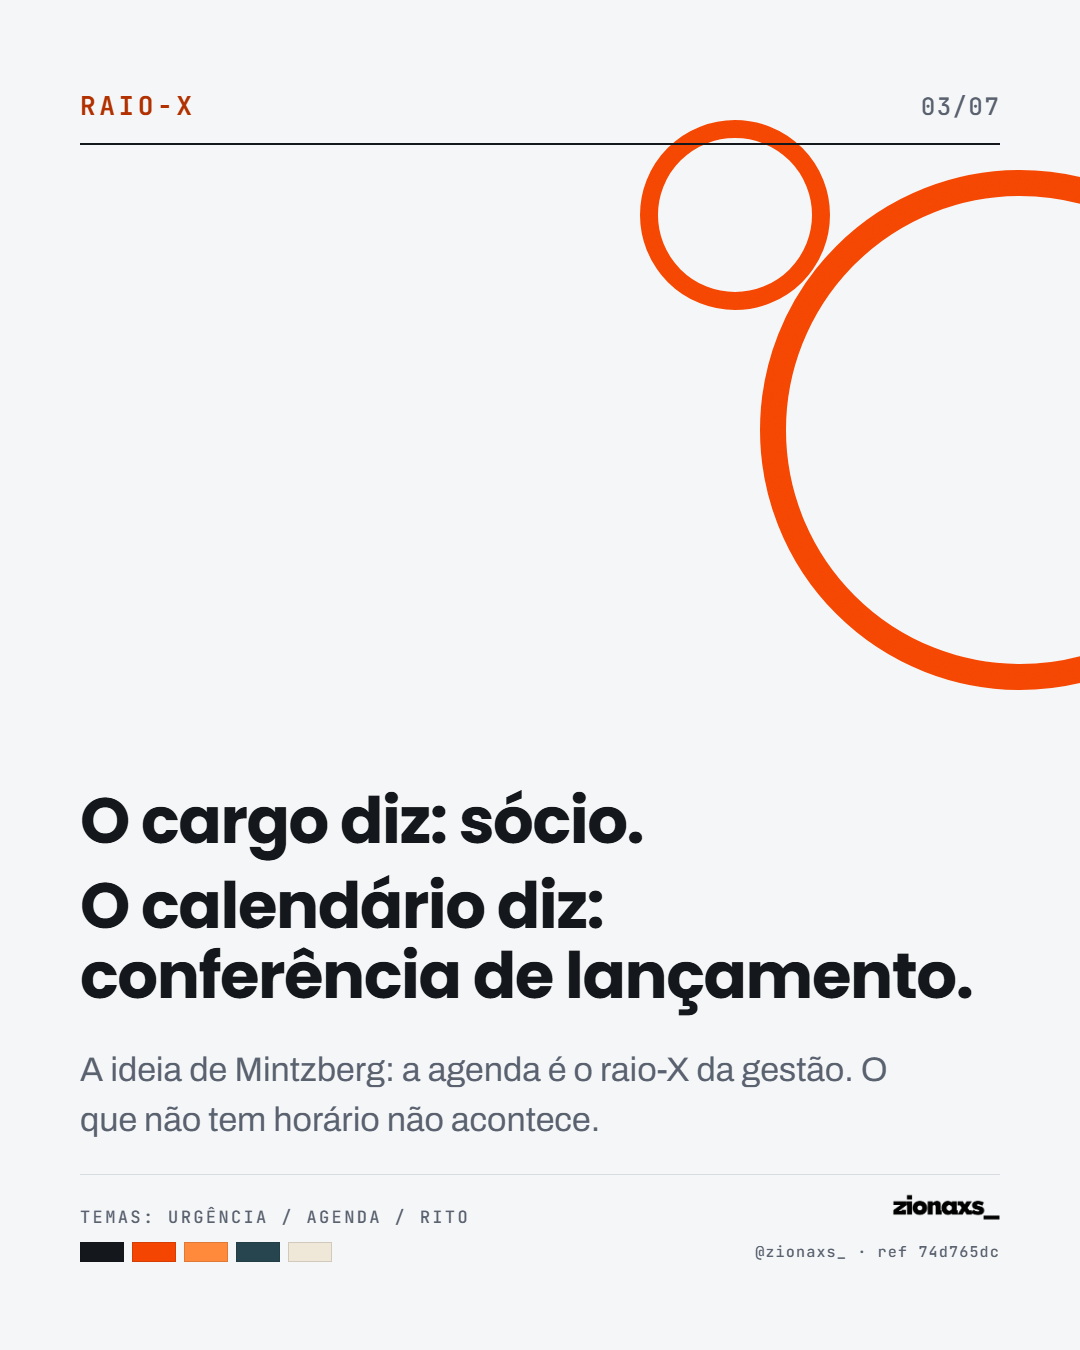
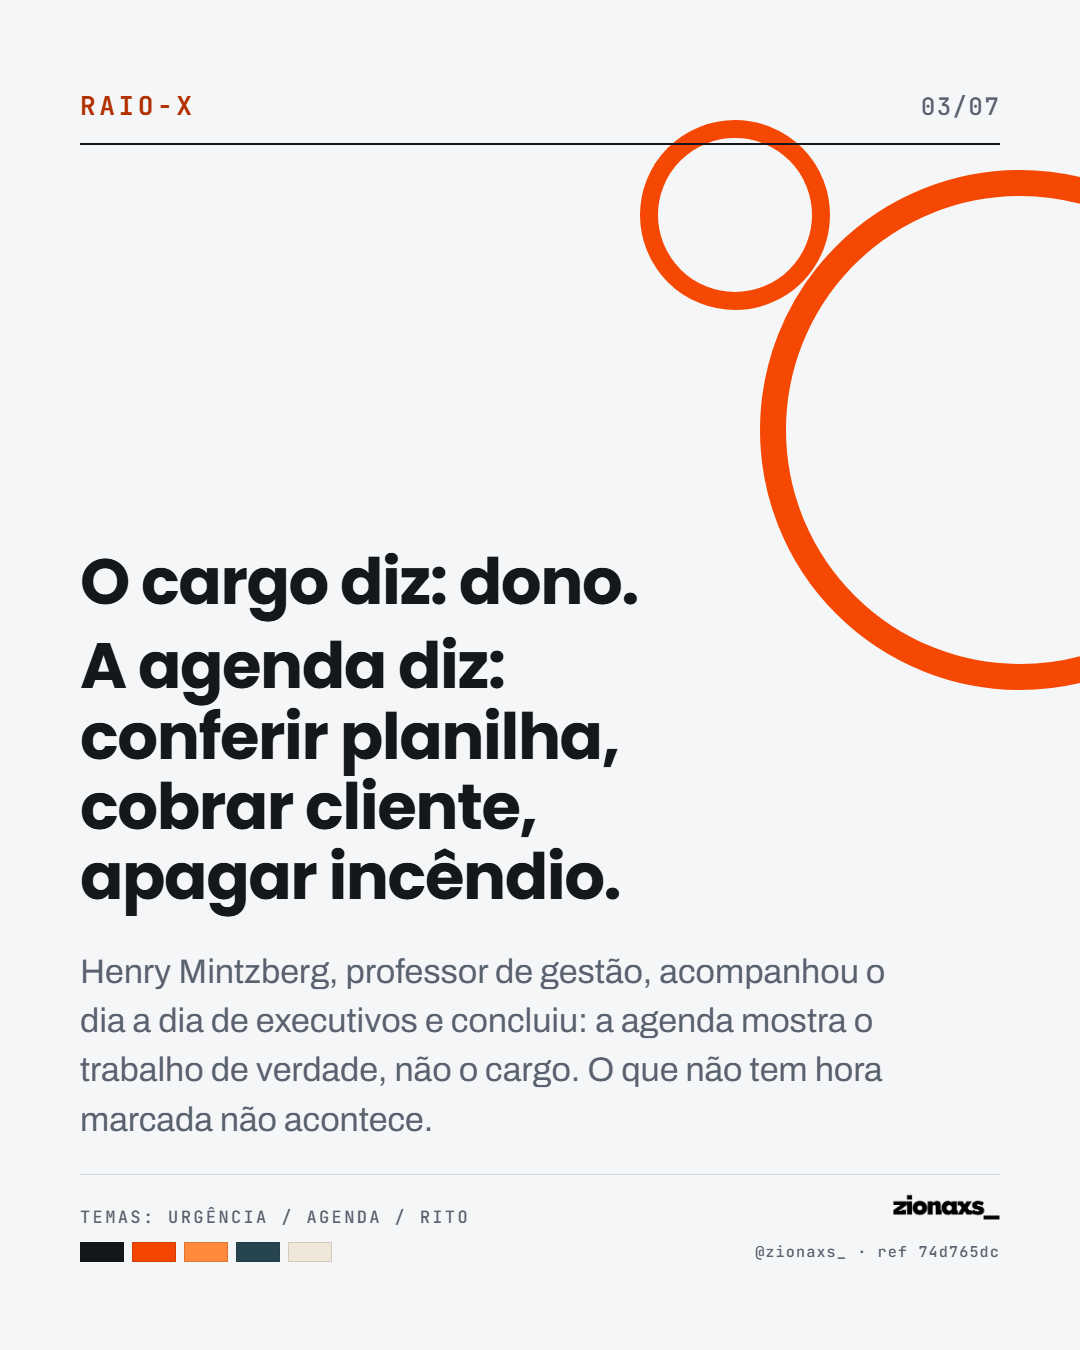
copy: zx-22 mais didatico, numeros em algarismo e correcao de layout
Copy reescrita para leitor leigo: Mintzberg apresentado, jargao trocado por
cena universal, cada bloco do roteiro explicado, CTA com o passo a passo.
Numeros em algarismo (14 mensagens, 3 urgencias, 3 blocos, 1 melhoria).

No renderer: meta e corpo passam a compartilhar uma pilha ancorada embaixo
(o meta fixo em top:40% colidia quando a copy crescia, e nenhum gate mede
sobreposicao), caixa alta restrita ao tipo de display, e poster-turn passa
a aceitar linha explicativa. 12/12 gates verdes.

Changed region(s): [[0.0611, 0.4044, 0.9167, 0.84]]

diff --git a/sistema/workspace/pieces/zx-22-reuniao-de-30-minutos/out/compiled.html b/sistema/workspace/pieces/zx-22-reuniao-de-30-minutos/out/compiled.html
@@ -110,9 +110,9 @@ body{font-family:Archivo,sans-serif;-webkit-font-smoothing:antialiased;font-kern
 .slide.pfield-paper{background:#F5F6F7;color:#14171B}
 .slide.pfield-orange{background:#F54502;color:#F5F6F7}
 
-.pmeta{position:absolute;left:80px;right:80px;top:40%;
-  display:flex;justify-content:space-between;align-items:flex-start;
-  padding-bottom:0;border-bottom:0}
+.pstack{position:absolute;left:80px;right:80px;bottom:206px}
+.pmeta{display:flex;justify-content:space-between;align-items:flex-start;
+  padding-bottom:0;border-bottom:0;margin-bottom:34px}
 .pyear{font-family:Poppins,sans-serif;font-weight:700;font-size:46px;letter-spacing:.02em}
 .pkick{font-family:"JetBrains Mono",monospace;font-weight:700;font-size:22px;letter-spacing:.2em;
   text-transform:uppercase;margin-top:22px;color:#F54502}
@@ -131,8 +131,7 @@ body{font-family:Archivo,sans-serif;-webkit-font-smoothing:antialiased;font-kern
 .php .pp2{font-family:"JetBrains Mono",monospace;font-weight:500;font-size:24px;
   letter-spacing:.06em;color:#5A6270;font-variant-numeric:tabular-nums}
 
-.pbody{position:absolute;left:80px;right:80px;bottom:206px}
-.pbody.up{text-transform:uppercase}
+.pbody.up .pt1,.pbody.up .pt2{text-transform:uppercase}
 .pt1{font-family:Poppins,sans-serif;font-weight:700;line-height:.98;letter-spacing:-.02em}
 .pt2{font-family:Poppins,sans-serif;font-weight:700;font-size:64px;line-height:1.1;letter-spacing:-.022em}
 .psub{font-size:40px;line-height:1.32;font-weight:500}
@@ -181,15 +180,15 @@ body{font-family:Archivo,sans-serif;-webkit-font-smoothing:antialiased;font-kern
   <div class="pscrim"></div>
   
   <div class="pgrain"></div>
-  <div class="hd pmeta">
+  
+  <div class="pstack"><div class="hd pmeta">
     <div><div class="pyear">2026</div><div class="pkick">Rito semanal</div></div>
     <div class="pnum">01/07</div>
-  </div>
-  <div class="pbody up">
+  </div><div class="pbody up">
 <h1 class="pt1" style="font-size:86px">Sua segunda-feira<br>começa apagando<br>incêndio?</h1>
 <p class="pt1" style="font-size:54px;line-height:1.06;margin-top:30px">Existe um rito de<br><span class="phl">30 minutos</span> para isso.</p>
-<p class="pnote" style="margin-top:26px">Roteiro pronto. Sem sistema novo.</p>
-  </div>
+<p class="pnote" style="margin-top:26px">Uma reunião curta com você mesmo, sempre no mesmo dia e horário. O roteiro completo vem nos próximos slides.</p>
+  </div></div>
   <div class="ft pfoot">
     <div class="pf1"><span class="ptemas">Temas: Urgência / Agenda / Rito</span><span class="pwm"><img src="../../../brand/logo/zionaxs-white.png" alt=""></span></div>
     <div class="pf2"><span class="pchips"><i style="background:#14171B"></i><i style="background:#F54502"></i><i style="background:#FF8A3C"></i><i style="background:#27454E"></i><i style="background:#EFE7D7"></i></span><span class="pmicro">@zionaxs_ · ref 74d765dc · foto: F. Rezvani</span></div>
@@ -205,10 +204,10 @@ body{font-family:Archivo,sans-serif;-webkit-font-smoothing:antialiased;font-kern
   </div>
   <div class="pgrain"></div>
   <div class="hd php"><span class="pk2">A cena</span><span class="pp2">02/07</span></div>
-  <div class="pbody">
-<p class="pt1" style="font-size:80px">Segunda, 8h.<br>Catorze mensagens,<br>três urgências.</p>
-<p class="psub" style="margin-top:30px;max-width:820px">A semana decide por você antes de você decidir por ela.</p>
-  </div>
+  <div class="pstack"><div class="pbody">
+<p class="pt1" style="font-size:80px">Segunda, 8h.<br>14 mensagens,<br>3 urgências.</p>
+<p class="psub" style="margin-top:30px;max-width:820px">Você responde tudo, resolve tudo — e quando vê já são 18h sem nenhuma decisão sua sobre o próprio negócio. A semana decidiu por você.</p>
+  </div></div>
   <div class="ft pfoot">
     <div class="pf1"><span class="ptemas">Temas: Urgência / Agenda / Rito</span><span class="pwm"><img src="../../../brand/logo/zionaxs-black.png" alt=""></span></div>
     <div class="pf2"><span class="pchips"><i style="background:#14171B"></i><i style="background:#F54502"></i><i style="background:#FF8A3C"></i><i style="background:#27454E"></i><i style="background:#EFE7D7"></i></span><span class="pmicro">@zionaxs_ · ref 74d765dc · foto: A. Vo</span></div>
@@ -223,11 +222,11 @@ body{font-family:Archivo,sans-serif;-webkit-font-smoothing:antialiased;font-kern
   </div>
   <div class="pgrain"></div>
   <div class="hd php"><span class="pk2">Raio-X</span><span class="pp2">03/07</span></div>
-  <div class="pbody">
-<p class="pt2" style="margin-top:0">O cargo diz: sócio.</p>
-<p class="pt2" style="margin-top:14px">O calendário diz:<br>conferência de lançamento.</p>
-<p class="sec" style="margin-top:34px;max-width:840px">A ideia de Mintzberg: a agenda é o raio-X da gestão. O que não tem horário não acontece.</p>
-  </div>
+  <div class="pstack"><div class="pbody">
+<p class="pt2" style="margin-top:0">O cargo diz: dono.</p>
+<p class="pt2" style="margin-top:14px">A agenda diz:<br>conferir planilha,<br>cobrar cliente,<br>apagar incêndio.</p>
+<p class="sec" style="margin-top:34px;max-width:840px">Henry Mintzberg, professor de gestão, acompanhou o dia a dia de executivos e concluiu: a agenda mostra o trabalho de verdade, não o cargo. O que não tem hora marcada não acontece.</p>
+  </div></div>
   <div class="ft pfoot">
     <div class="pf1"><span class="ptemas">Temas: Urgência / Agenda / Rito</span><span class="pwm"><img src="../../../brand/logo/zionaxs-black.png" alt=""></span></div>
     <div class="pf2"><span class="pchips"><i style="background:#14171B"></i><i style="background:#F54502"></i><i style="background:#FF8A3C"></i><i style="background:#27454E"></i><i style="background:#EFE7D7"></i></span><span class="pmicro">@zionaxs_ · ref 74d765dc</span></div>
@@ -240,14 +239,15 @@ body{font-family:Archivo,sans-serif;-webkit-font-smoothing:antialiased;font-kern
     <svg class="pghost" viewBox="0 0 640 640" aria-hidden="true"><text x="640" y="560" text-anchor="end" font-size="560" letter-spacing="-28">30</text></svg>
   </div>
   <div class="pgrain"></div>
-  <div class="hd pmeta">
+  
+  <div class="pstack"><div class="hd pmeta">
     <div><div class="pyear">2026</div><div class="pkick">Gestão</div></div>
     <div class="pnum">04/07</div>
-  </div>
-  <div class="pbody up">
+  </div><div class="pbody up">
 <p class="pt1" style="font-size:78px">Gestão não é o que<br>sobra do dia.</p>
 <p class="pt1" style="font-size:78px;margin-top:30px">É um <span class="phl-ink">horário</span><br>no calendário.</p>
-  </div>
+<p class="psub" style="margin-top:32px;max-width:880px">Sobra de tempo é justamente o que a<br>semana nunca entrega. Por isso gestão<br>precisa de hora marcada, como qualquer<br>compromisso com cliente.</p>
+  </div></div>
   <div class="ft pfoot">
     <div class="pf1"><span class="ptemas">Temas: Urgência / Agenda / Rito</span><span class="pwm"><img src="../../../brand/logo/zionaxs-white.png" alt=""></span></div>
     <div class="pf2"><span class="pchips"><i style="background:#14171B"></i><i style="background:#F54502"></i><i style="background:#FF8A3C"></i><i style="background:#27454E"></i><i style="background:#EFE7D7"></i></span><span class="pmicro">@zionaxs_ · ref 74d765dc</span></div>
@@ -261,14 +261,14 @@ body{font-family:Archivo,sans-serif;-webkit-font-smoothing:antialiased;font-kern
   </div>
   <div class="pgrain"></div>
   <div class="hd php"><span class="pk2">O roteiro</span><span class="pp2">05/07</span></div>
-  <div class="pbody">
-<p class="pt2">30 minutos,<br>três blocos.</p>
+  <div class="pstack"><div class="pbody">
+<p class="pt2">30 minutos, 3 blocos.</p>
 <div class="preg">
-    <div class="l"><span class="n">01</span><span class="t">10 min — Números: os três que você escolheu, na mesma ordem</span></div>
-    <div class="l"><span class="n">02</span><span class="t">10 min — Travas:<br>o que está parado esperando sua decisão</span></div>
-    <div class="l"><span class="n">03</span><span class="t">10 min — Uma melhoria: o que muda nesta semana</span></div>
+    <div class="l"><span class="n">01</span><span class="t">10 min — Os números: os mesmos 3 indicadores toda semana, na mesma ordem.</span></div>
+    <div class="l"><span class="n">02</span><span class="t">10 min — O que travou: o que está parado esperando uma decisão sua.</span></div>
+    <div class="l"><span class="n">03</span><span class="t">10 min — 1 melhoria: escolha uma única coisa para mudar nesta semana.</span></div>
 </div>
-  </div>
+  </div></div>
   <div class="ft pfoot">
     <div class="pf1"><span class="ptemas">Temas: Urgência / Agenda / Rito</span><span class="pwm"><img src="../../../brand/logo/zionaxs-black.png" alt=""></span></div>
     <div class="pf2"><span class="pchips"><i style="background:#14171B"></i><i style="background:#F54502"></i><i style="background:#FF8A3C"></i><i style="background:#27454E"></i><i style="background:#EFE7D7"></i></span><span class="pmicro">@zionaxs_ · ref 74d765dc</span></div>
@@ -282,11 +282,11 @@ body{font-family:Archivo,sans-serif;-webkit-font-smoothing:antialiased;font-kern
   </div>
   <div class="pgrain"></div>
   <div class="hd php"><span class="pk2">Sem atalho</span><span class="pp2">06/07</span></div>
-  <div class="pbody">
+  <div class="pstack"><div class="pbody">
 <p class="pt2">O rito não<br>resolve crise.</p>
 <p class="pt2" style="color:#B23100;margin-top:18px">Ele impede que a crise<br>seja o único momento<br>de gestão.</p>
-<p class="psub" style="margin-top:34px;max-width:860px">Sem painel? Três números à mão valem mais que dashboard adiado.</p>
-  </div>
+<p class="psub" style="margin-top:34px;max-width:860px">Não precisa de sistema nem planilha bonita: 3 números anotados no papel já servem para começar na próxima segunda.</p>
+  </div></div>
   <div class="ft pfoot">
     <div class="pf1"><span class="ptemas">Temas: Urgência / Agenda / Rito</span><span class="pwm"><img src="../../../brand/logo/zionaxs-black.png" alt=""></span></div>
     <div class="pf2"><span class="pchips"><i style="background:#14171B"></i><i style="background:#F54502"></i><i style="background:#FF8A3C"></i><i style="background:#27454E"></i><i style="background:#EFE7D7"></i></span><span class="pmicro">@zionaxs_ · ref 74d765dc</span></div>
@@ -299,15 +299,15 @@ body{font-family:Archivo,sans-serif;-webkit-font-smoothing:antialiased;font-kern
   <div class="pscrim"></div>
   
   <div class="pgrain"></div>
-  <div class="hd pmeta">
+  
+  <div class="pstack"><div class="hd pmeta">
     <div><div class="pyear">2026</div><div class="pkick">Segunda que vem</div></div>
     <div class="pnum">07/07</div>
-  </div>
-  <div class="pbody up">
+  </div><div class="pbody up">
 <p class="pt1" style="font-size:76px">Marque <span class="phl">30 minutos</span><br>na próxima segunda.</p>
 <p class="psub" style="margin-top:28px">Mesma hora,<br>toda semana.</p>
-<p class="pnote" style="margin-top:24px">Se não está no calendário, não é rito. É intenção.</p>
-  </div>
+<p class="pnote" style="margin-top:24px">Abra a agenda agora e crie o evento repetindo toda semana. Se não está no calendário, não é rito — é intenção.</p>
+  </div></div>
   <div class="ft pfoot">
     <div class="pf1"><span class="ptemas">Temas: Urgência / Agenda / Rito</span><span class="pwm"><img src="../../../brand/logo/zionaxs-white.png" alt=""></span></div>
     <div class="pf2"><span class="pchips"><i style="background:#14171B"></i><i style="background:#F54502"></i><i style="background:#FF8A3C"></i><i style="background:#27454E"></i><i style="background:#EFE7D7"></i></span><span class="pmicro">@zionaxs_ · ref 74d765dc · foto: E. Chystiakov</span></div>

diff --git a/sistema/app/lib/templates/carousel-4x5.js b/sistema/app/lib/templates/carousel-4x5.js
@@ -125,9 +125,9 @@ body{font-family:${f.body},sans-serif;-webkit-font-smoothing:antialiased;font-ke
 .slide.pfield-paper{background:${c.paper};color:${c.ink}}
 .slide.pfield-orange{background:${c.accent};color:${c.paper}}
 
-.pmeta{position:absolute;left:${fmt.mx}px;right:${fmt.mx}px;top:40%;
-  display:flex;justify-content:space-between;align-items:flex-start;
-  padding-bottom:0;border-bottom:0}
+.pstack{position:absolute;left:${fmt.mx}px;right:${fmt.mx}px;bottom:206px}
+.pmeta{display:flex;justify-content:space-between;align-items:flex-start;
+  padding-bottom:0;border-bottom:0;margin-bottom:34px}
 .pyear{font-family:${f.display},sans-serif;font-weight:700;font-size:46px;letter-spacing:.02em}
 .pkick{font-family:"${f.mono}",monospace;font-weight:700;font-size:22px;letter-spacing:.2em;
   text-transform:uppercase;margin-top:22px;color:${c.accent}}
@@ -146,8 +146,7 @@ body{font-family:${f.body},sans-serif;-webkit-font-smoothing:antialiased;font-ke
 .php .pp2{font-family:"${f.mono}",monospace;font-weight:500;font-size:24px;
   letter-spacing:.06em;color:${c.muted};font-variant-numeric:tabular-nums}
 
-.pbody{position:absolute;left:${fmt.mx}px;right:${fmt.mx}px;bottom:206px}
-.pbody.up{text-transform:uppercase}
+.pbody.up .pt1,.pbody.up .pt2{text-transform:uppercase}
 .pt1{font-family:${f.display},sans-serif;font-weight:700;line-height:.98;letter-spacing:-.02em}
 .pt2{font-family:${f.display},sans-serif;font-weight:700;font-size:${t.title}px;line-height:1.1;letter-spacing:-.022em}
 .psub{font-size:40px;line-height:1.32;font-weight:500}
@@ -287,14 +286,19 @@ function posterFrame(slide, ctx, bodyHtml) {
   </div>`;
 
   const up = field === 'paper' ? '' : ' up';
+  const stacked = field === 'paper'
+    ? `<div class="pstack"><div class="pbody${up}">
+${bodyHtml}
+  </div></div>`
+    : `<div class="pstack">${top}<div class="pbody${up}">
+${bodyHtml}
+  </div></div>`;
   return `<section class="slide poster pfield-${field}" id="s${slide.n}">
   ${bg}
   ${posterBleed(slide)}
   <div class="pgrain"></div>
-  ${top}
-  <div class="pbody${up}">
-${bodyHtml}
-  </div>
+  ${field === 'paper' ? top : ''}
+  ${stacked}
   ${foot}
 </section>`;
 }
@@ -489,7 +493,8 @@ ${c.closing ? `<p class="sec" style="margin-top:34px;max-width:840px">${brk(e, c
   'poster-turn'(s, ctx) {
     const c = s.copy, e = ctx.esc;
     return `<p class="pt1" style="font-size:78px">${brk(e, c.title)}</p>
-<p class="pt1" style="font-size:78px;margin-top:30px">${hlWrap(e, c.accent, c.hl, 'phl-ink')}</p>`;
+<p class="pt1" style="font-size:78px;margin-top:30px">${hlWrap(e, c.accent, c.hl, 'phl-ink')}</p>
+${c.body ? `<p class="psub" style="margin-top:32px;max-width:880px">${brk(e, c.body)}</p>` : ''}`;
   },
 
   'poster-fields'(s, ctx) {

diff --git a/sistema/workspace/pieces/zx-22-reuniao-de-30-minutos/out/legenda-alt.md b/sistema/workspace/pieces/zx-22-reuniao-de-30-minutos/out/legenda-alt.md
@@ -6,9 +6,9 @@ A segunda-feira que começa apagando incêndio não é falta de disciplina. É g
 
 Henry Mintzberg escreveu em 1990: "If you ask managers what they do, they will most likely tell you that they plan, organize, coordinate, and control…". Em tradução editorial livre: pergunte a um gestor o que ele faz e ele dirá que planeja, organiza e coordena; observe o dia dele e a agenda contará outra história. A agenda é o raio-X da gestão.
 
-O roteiro dos 30 minutos tem três blocos de dez: os mesmos três números toda semana, na mesma ordem — comparáveis, não perfeitos; as travas, ou seja, o que está parado esperando decisão; e uma única melhoria para a semana. Pauta fixa é o que transforma reunião em rito: o custo de decidir o que discutir cai a zero.
+O roteiro dos 30 minutos tem 3 blocos de 10: os mesmos 3 números toda semana, na mesma ordem — comparáveis, não perfeitos; as travas, ou seja, o que está parado esperando decisão; e uma única melhoria para a semana. Pauta fixa é o que transforma reunião em rito: o custo de decidir o que discutir cai a zero.
 
-O rito não substitui conversa nem resolve crise — ele impede que a crise seja o único momento de gestão. E dá para começar sem sistema: três números anotados à mão valem mais que um dashboard adiado.
+O rito não substitui conversa nem resolve crise — ele impede que a crise seja o único momento de gestão. E dá para começar sem sistema: 3 números anotados à mão valem mais que um dashboard adiado.
 
 Marque 30 minutos na agenda da próxima segunda. Mesma hora, toda semana. Se não está no calendário, não é rito — é intenção.
 
@@ -16,17 +16,17 @@ Referência: Henry Mintzberg, The Manager's Job: Folklore and Fact, Harvard Busi
 
 ## Alt text por slide
 
-**01/07** · Slide 1 de 7. Sua segunda-feira começa apagando incêndio? Existe um rito de 30 minutos para isso — roteiro pronto, sem sistema novo. Fotografia escura de uma pessoa em silhueta sentada à mesa diante da janela ao amanhecer, com a promessa de método destacada em caixa laranja.
+**01/07** · Slide 1 de 7. Sua segunda-feira começa apagando incêndio? Existe um rito de 30 minutos para isso: uma reunião curta com você mesmo, sempre no mesmo dia e horário, com o roteiro completo nos próximos slides. Fotografia escura de uma pessoa em silhueta sentada à mesa diante da janela ao amanhecer.
 
-**02/07** · Slide 2 de 7. Segunda-feira, oito da manhã: catorze mensagens e três urgências antes da primeira decisão própria. A semana decide pelo sócio antes que ele decida por ela. Papel claro com fotografia em preto e branco de uma parede inteira coberta de recados adesivos e geometria laranja.
+**02/07** · Slide 2 de 7. Segunda-feira, 8h: 14 mensagens e 3 urgências. Você responde tudo, resolve tudo, e quando vê já são 18h sem nenhuma decisão sua sobre o próprio negócio — a semana decidiu por você. Papel claro com fotografia em preto e branco de uma parede inteira coberta de recados adesivos.
 
-**03/07** · Slide 3 de 7. O cargo diz sócio; o calendário diz conferência de lançamento. A ideia de Henry Mintzberg, em paráfrase: a agenda é o raio-X da gestão, e o que não tem horário não acontece. O contraste entre o papel formal e o trabalho real do dia.
+**03/07** · Slide 3 de 7. O cargo diz dono; a agenda diz conferir planilha, cobrar cliente, apagar incêndio. Henry Mintzberg, professor de gestão, acompanhou o dia a dia de executivos e concluiu que a agenda mostra o trabalho de verdade, não o cargo: o que não tem hora marcada não acontece.
 
-**04/07** · Slide 4 de 7. Gestão não é o que sobra do dia; é um horário no calendário. Campo laranja chapado com tipografia clara em caixa alta, a palavra horário destacada em caixa grafite e um número trinta gigante em marca dágua — a ruptura da peça é a troca de campo para o laranja.
+**04/07** · Slide 4 de 7. Gestão não é o que sobra do dia; é um horário no calendário. Sobra de tempo é justamente o que a semana nunca entrega, por isso gestão precisa de hora marcada como qualquer compromisso com cliente. Campo laranja chapado com o número 30 gigante em marca dágua.
 
-**05/07** · Slide 5 de 7. O roteiro dos 30 minutos em três blocos de dez: números, sempre os mesmos três e na mesma ordem; travas, o que está parado esperando decisão; e uma única melhoria para a semana. Este é o quadro para salvar e aplicar na próxima segunda.
+**05/07** · Slide 5 de 7. O roteiro dos 30 minutos em 3 blocos de 10: os números, com os mesmos 3 indicadores toda semana e na mesma ordem; o que travou, ou seja, o que está parado esperando uma decisão sua; e 1 melhoria, uma única coisa para mudar nesta semana. Este é o quadro para salvar.
 
-**06/07** · Slide 6 de 7. O rito não resolve crise; impede que a crise seja o único momento de gestão. E sem painel pronto, três números anotados à mão valem mais que um dashboard adiado. O limite da dica declarado na própria peça.
+**06/07** · Slide 6 de 7. O rito não resolve crise; ele impede que a crise seja o único momento de gestão. Não precisa de sistema nem planilha bonita: 3 números anotados no papel já servem para começar na próxima segunda. O limite da dica declarado na própria peça.
 
-**07/07** · Slide 7 de 7. Marque 30 minutos na próxima segunda, mesma hora, toda semana. Se não está no calendário, não é rito, é intenção. Fotografia escura de mãos sobre a mesa fecha a peça, com o número trinta destacado em caixa laranja. Ação única, executável com a agenda que o leitor já tem.
+**07/07** · Slide 7 de 7. Marque 30 minutos na próxima segunda, mesma hora, toda semana. Abra a agenda agora e crie o evento repetindo toda semana: se não está no calendário, não é rito, é intenção. Fotografia escura de mãos escrevendo em um caderno fecha a peça.
 

diff --git a/campanhas/zionaxs/direcao-visual/README.md b/campanhas/zionaxs/direcao-visual/README.md
@@ -59,3 +59,7 @@ O estilo está implementado como família de layouts `poster-*` em `sistema/app/
 - No campo laranja, texto pequeno é tinta (4.9:1) e texto grande é papel (3.4:1); creme sobre laranja reprova o G5 por 0.02.
 - A microlinha imprime `ref` (sha256 do id da peça, 8 hex) — o digest real da geração inclui os próprios PNGs e não pode se auto-referenciar na arte.
 - Todo texto do chrome (ano, temas, microlinha) entra como slot de copy aprovada no contrato; etiquetas internas (`ZX-…`, `S1`) nunca aparecem na arte (G11).
+- O bloco de meta (ano + série + nº) e o corpo vivem na MESMA pilha ancorada embaixo (`.pstack`). Com o meta fixo em `top:40%` o corpo crescia por baixo e colidia quando a copy ficava mais longa — **nenhum gate mede sobreposição**, então isso é regra de construção, não de verificação.
+- Caixa alta só no tipo de display (`.pt1`/`.pt2`). Texto explicativo em caixa normal: parágrafo longo em caixa alta derruba a legibilidade e contraria a regra de copy didática.
+- Parágrafos explicativos aceitam quebra autoral (`
+`): é como se equilibra a última linha quando o G6 acusa órfã.
